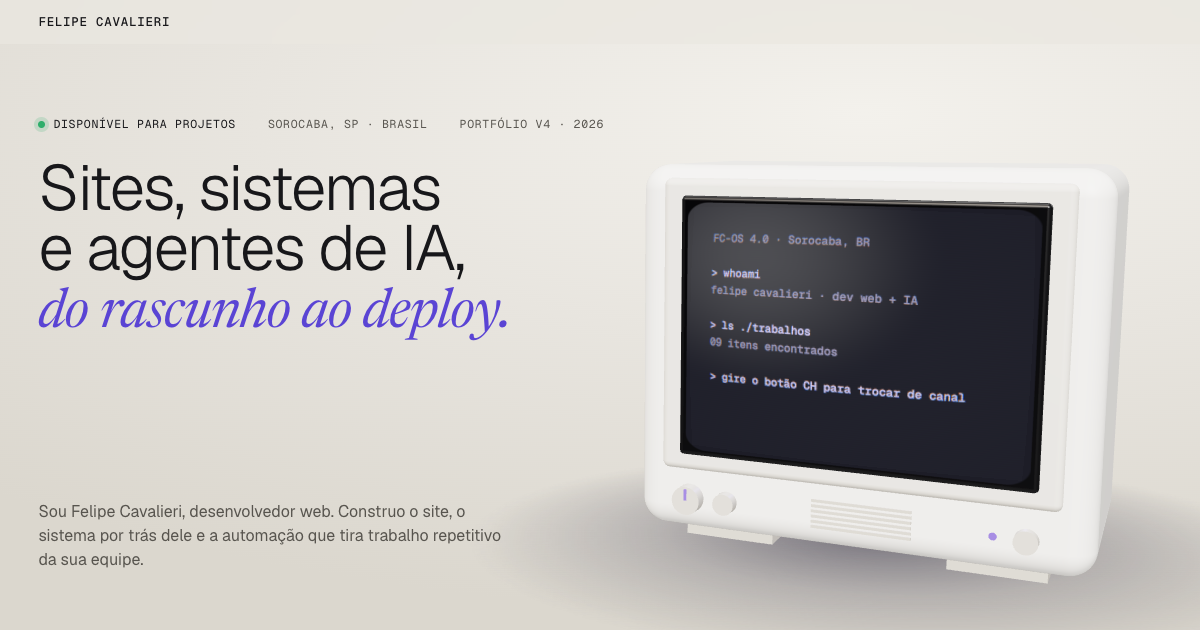
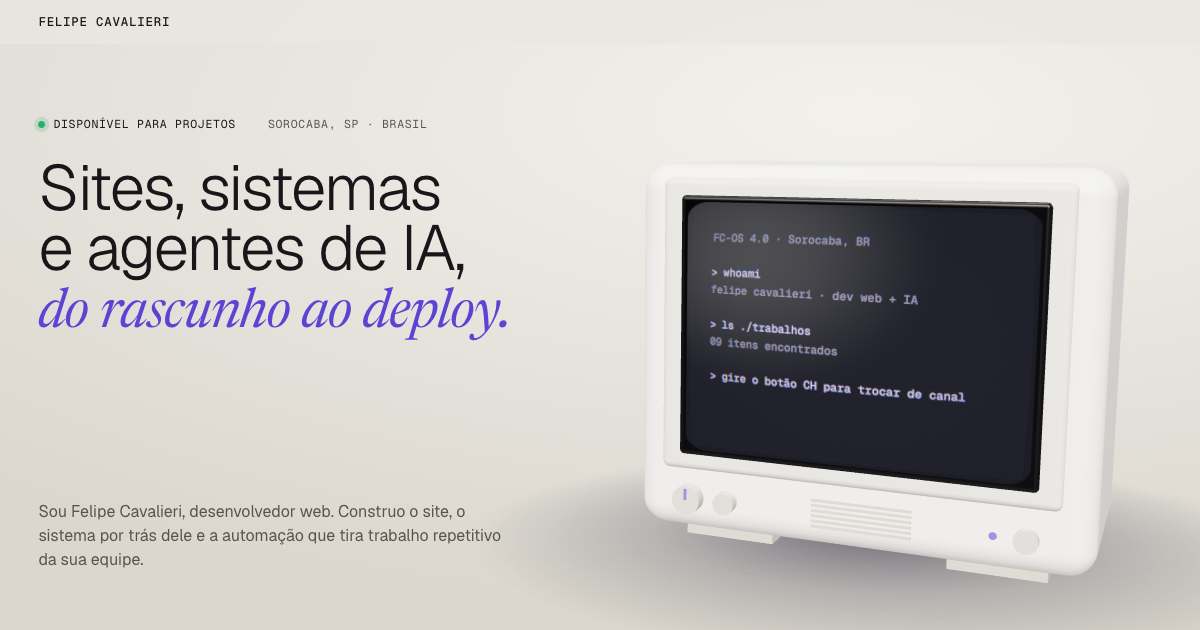
ref(v4): Remove the stats HUD and the version label from the hero
Drop the fixed FPS/draw-call readout and the "Portfólio v4 · 2026" tag,
along with the stats plumbing that only fed the HUD. Re-render the share
image so it no longer shows the removed label.

diff --git a/components/v4/Stage.tsx b/components/v4/Stage.tsx
@@ -1,12 +1,10 @@
 "use client";
 
 import { useEffect, useRef } from "react";
-import { bus } from "@/lib/v4/bus";
 
-/** Canvas fixo do CRT + HUD com números medidos de verdade. */
+/** Canvas fixo do monitor CRT. */
 export default function Stage() {
   const canvas = useRef<HTMLCanvasElement>(null);
-  const hud = useRef<HTMLDivElement>(null);
 
   useEffect(() => {
     let dispose = () => {};
@@ -21,52 +19,14 @@ export default function Stage() {
         // sem WebGL o site continua inteiro, só sem o monitor
         console.warn("CRT indisponível:", err);
         canvas.current.style.display = "none";
-        if (hud.current) hud.current.style.display = "none";
       }
     });
 
-    const el = hud.current!;
-    const q = (k: string) => el.querySelector<HTMLElement>(`[data-k="${k}"]`)!;
-    const paint = () => {
-      const s = bus.stats.get();
-      const c = bus.channel.get();
-      q("fps").textContent = String(s.fps);
-      q("draw").textContent = String(s.calls);
-      q("tri").textContent = s.tris >= 1000 ? `${(s.tris / 1000).toFixed(1)}k` : String(s.tris);
-      q("dpr").textContent = s.dpr.toFixed(2);
-      q("ch").textContent = c === -1 ? "boot" : c === -2 ? "00" : String(c + 1).padStart(2, "0");
-    };
-    const offStats = bus.stats.on(paint);
-    const offCh = bus.channel.on(paint);
-
     return () => {
       dead = true;
-      offStats();
-      offCh();
       dispose();
     };
   }, []);
 
-  return (
-    <>
-      <canvas ref={canvas} className="stage" aria-hidden="true" />
-      <div ref={hud} className="hud" aria-hidden="true">
-        <span>
-          FPS <b data-k="fps">0</b>
-        </span>
-        <span className="wide">
-          DRAW <b data-k="draw">0</b>
-        </span>
-        <span className="wide">
-          TRI <b data-k="tri">0</b>
-        </span>
-        <span className="wide">
-          DPR <b data-k="dpr">1.00</b>
-        </span>
-        <span>
-          CH <b data-k="ch">boot</b>
-        </span>
-      </div>
-    </>
-  );
+  return <canvas ref={canvas} className="stage" aria-hidden="true" />;
 }

diff --git a/app/v4.css b/app/v4.css
@@ -97,26 +97,6 @@ em {
   pointer-events: none;
 }
 
-.hud {
-  position: fixed;
-  left: var(--gutter);
-  bottom: 1rem;
-  z-index: 40;
-  display: flex;
-  gap: 1.1rem;
-  font-family: var(--mono);
-  font-size: 0.68rem;
-  letter-spacing: 0.06em;
-  color: var(--ink-2);
-  font-variant-numeric: tabular-nums;
-  pointer-events: none;
-  mix-blend-mode: multiply;
-}
-.hud b {
-  font-weight: 500;
-  color: var(--ink);
-}
-
 /* ── nav ── */
 .nav {
   position: fixed;
@@ -640,21 +620,7 @@ section {
     position: static;
     text-align: center;
   }
-  .hud {
-    padding: 0.3rem 0.7rem;
-    border-radius: 99px;
-    background: rgba(234, 231, 225, 0.86);
-    mix-blend-mode: normal;
-    left: 0.6rem;
-    bottom: 0.6rem;
-  }
-  .foot {
-    padding-bottom: 4rem;
-  }
   .nav-links a:not(.nav-cta) {
-    display: none;
-  }
-  .hud .wide {
     display: none;
   }
 }

diff --git a/components/v4/crt/stage.ts b/components/v4/crt/stage.ts
@@ -298,8 +298,6 @@ export function createStage(canvas: HTMLCanvasElement, reduced: boolean) {
 
   let raf = 0;
   let last = performance.now();
-  let frames = 0;
-  let statT = last;
   let running = false;
 
   function frame(now: number) {
@@ -332,18 +330,6 @@ export function createStage(canvas: HTMLCanvasElement, reduced: boolean) {
       if (screen.draw(bus.channel.get(), now)) screenTex.needsUpdate = true;
       apply(now / 1000);
       renderer.render(scene, camera);
-    }
-
-    frames++;
-    if (now - statT >= 500) {
-      bus.stats.set({
-        fps: Math.round((frames * 1000) / (now - statT)),
-        calls: hidden ? 0 : renderer.info.render.calls,
-        tris: hidden ? 0 : renderer.info.render.triangles,
-        dpr: renderer.getPixelRatio(),
-      });
-      frames = 0;
-      statT = now;
     }
   }
 

diff --git a/lib/v4/bus.ts b/lib/v4/bus.ts
@@ -29,13 +29,10 @@ function signal<T>(initial: T) {
   };
 }
 
-export type Stats = { fps: number; calls: number; tris: number; dpr: number };
-
 export const bus = {
   pose: signal<PoseName>("hero"),
   channel: signal<Channel>(-1),
   power: signal<boolean>(true),
-  stats: signal<Stats>({ fps: 0, calls: 0, tris: 0, dpr: 1 }),
   /** velocidade do scroll (px/frame aprox.), escrita pelo Lenis */
   velocity: 0,
 };

diff --git a/components/v4/Site.tsx b/components/v4/Site.tsx
@@ -168,7 +168,6 @@ export default function Site() {
             <div className="hero-meta hero-in">
               <span className="mono live">Disponível para projetos</span>
               <span className="mono">Sorocaba, SP · Brasil</span>
-              <span className="mono">Portfólio v4 · 2026</span>
             </div>
             <h1 className="hero-title hero-in">
               Sites, sistemas
